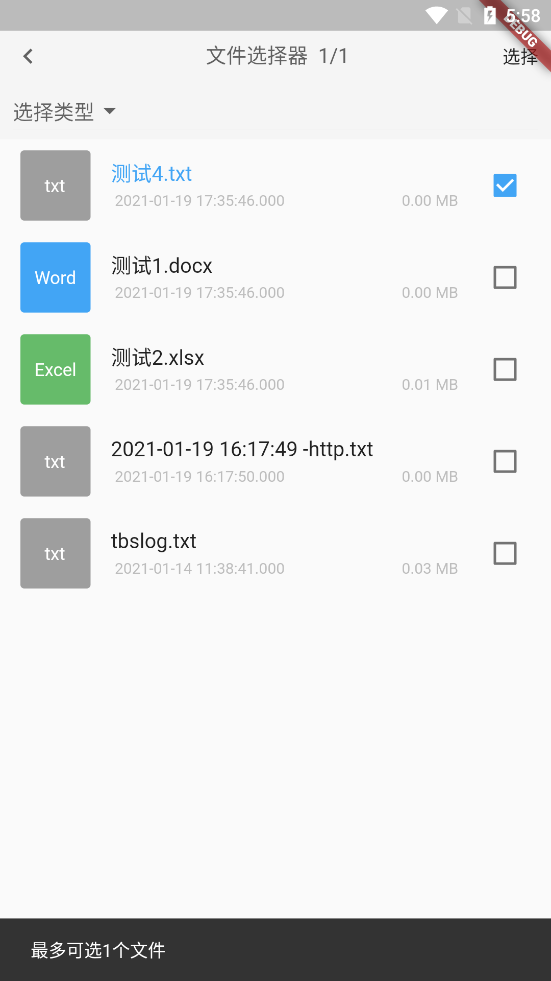
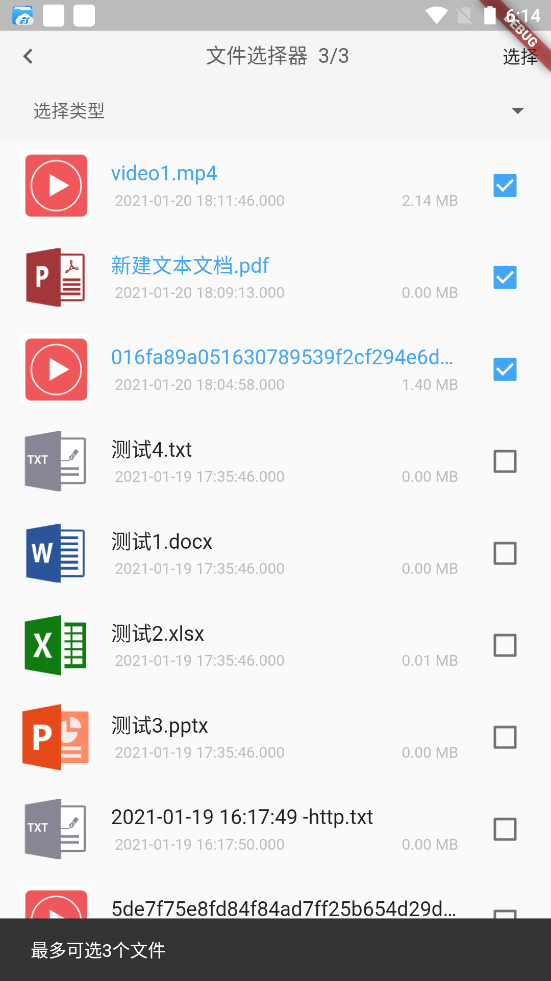
修改了图标

diff --git a/lib/flutterfileselector.dart b/lib/flutterfileselector.dart
@@ -6,7 +6,7 @@ import 'package:flutter/cupertino.dart';
 import 'package:flutter/material.dart';
 import 'package:flutter/services.dart';
 import 'package:permission_handler/permission_handler.dart';
-
+import 'comm.dart';
 import 'FileUtilModel.dart';
 
 ///
@@ -212,7 +212,6 @@ class _FlutterFileSelectorState extends State<_FlutterFileSelector> {
       body:Builder(builder: (BuildContext context) {
         return Column(
           children: <Widget>[
-            Image.asset("images/word.png"),
             /// appbar
             Container(
                 alignment: Alignment.centerLeft,
@@ -236,7 +235,8 @@ class _FlutterFileSelectorState extends State<_FlutterFileSelector> {
                         log("返回的类型："+fileSelect.runtimeType.toString());
                         Navigator.pop(context,fileSelect);
                       },
-                      child: Text("选择"),
+                      // child: Text("选择"),
+                      child: Image.asset("images/select.png",width: 25,height: 25,package: Comm.PACKNAME,),
                     ) : Text("选择",style: TextStyle(color: Colors.transparent),),
                   ],
                 ),
@@ -301,13 +301,7 @@ class _FlutterFileSelectorState extends State<_FlutterFileSelector> {
                     setState(() { });
                   },
                   secondary: ClipRRect(
-                    child: Container(
-                      color:_type(list[index].filePath)["color"],
-                      width: 55,
-                      height: 55,
-                      alignment: Alignment.center,
-                      child: Text(_type(list[index].filePath)["str"],style: TextStyle(color: Colors.white),),
-                    ),
+                    child: Image.asset(_type(list[index].filePath)["png"], package: Comm.PACKNAME,width: 55,height: 55,),
                     borderRadius: BorderRadius.circular(3),
                   ),
                   title: new Text("${list[index].fileName}",overflow: TextOverflow.ellipsis,),
@@ -334,33 +328,60 @@ class _FlutterFileSelectorState extends State<_FlutterFileSelector> {
   }
 
   _type(String str){
+    str = str.toLowerCase();
+    Map m = Map();
     if(str.endsWith(".pdf")){
-      Map m = Map();
-      m["str"] = "PDF";
-      m["color"] = Colors.red[400];
+      // m["str"] = "PDF";
+      m["color"] = Color(0xffA33639);
+      m["png"] = "images/pdf.png";
+      return m;
+    }
+    if(str.endsWith(".ppt") || str.endsWith(".pptx")){
+      // m["str"] = "PDF";
+      m["color"] = Color(0xffA33639);
+      m["png"] = "images/ppt.png";
       return m;
     }
     if(str.endsWith(".doc") || str.endsWith(".docx")){
-      Map m = Map();
-      m["str"] = "Word";
-      m["color"] = Colors.blue[400];
+      // m["str"] = "Word";
+      m["color"] =  Color(0xff2A5699);
+      m["png"] = "images/word.png";
       return m;
     }
     if(str.endsWith(".xlsx") || str.endsWith(".xls")){
-      Map m = Map();
-      m["str"] = "Excel";
-      m["color"] = Colors.green[400];
+      // m["str"] = "Excel";
+      m["color"] = Color(0xff107B0F);
+      m["png"] = "images/excel.png";
       return m;
     }
     if(str.endsWith(".txt")){
-      Map m = Map();
-      m["str"] = "TxT";
+      // m["str"] = "TxT";
       m["color"] = Colors.grey[400];
+      m["png"] = "images/txt.png";
       return m;
     }
-    Map m = Map();
-    m["str"] = str.substring(str.lastIndexOf(".")+1,str.length);
-    m["color"] = Colors.grey[500];
+    // if(str.endsWith(".txt")){
+    //   // m["str"] = "TxT";
+    //   m["color"] = Colors.grey[400];
+    //   m["png"] = "images/music.png";
+    //   return m;
+    // }
+    // if(str.endsWith(".txt")){
+    //   // m["str"] = "TxT";
+    //   m["color"] = Colors.grey[400];
+    //   m["png"] = "images/music.png";
+    //   return m;
+    // }
+    // AVI、mov、rmvb、rm、FLV、mp4、3GP
+    if(str.endsWith(".mp4") || str.endsWith(".avi") || str.endsWith(".rmvb") || str.endsWith(".mov") || str.endsWith(".rm") || str.endsWith(".flv") || str.endsWith(".3gp")){
+      // m["str"] = "TxT";
+      // m["color"] = Colors.grey[400];
+      m["png"] = "images/video.png";
+      return m;
+    }
+    // m["str"] = str.substring(str.lastIndexOf(".")+1,str.length);
+    // m["color"] = Colors.grey[500];
+    m["png"] = "images/out.png";
     return m;
   }
 }

diff --git a/example/lib/main.dart b/example/lib/main.dart
@@ -74,12 +74,12 @@ class _HomeState extends State<Home> {
               /// 按钮
               btn: Text("选择文档"),
               /// 最大可选
-              maxCount: 1,
+              maxCount: 3,
               /// 开启筛选
               isScreen: true,
               /// 选择器展示的文件格式
               /// 往数组里添加需要展示出来选择的格式
-              fileTypeEnd: [".pdf", ".doc", ".docx",".xls",".xlsx",".txt"],
+              fileTypeEnd: [".pdf", ".doc", ".docx",".xls",".xlsx",".txt",".pptx",".ppt",".mp4",".mp3"],
               valueChanged: (v){
                 print(v[0].filePath);
                 this.v = v;

diff --git a/lib/comm.dart b/lib/comm.dart
@@ -1,0 +1,3 @@
+class Comm{
+  static const String PACKNAME = "flutterfileselector";
+}
